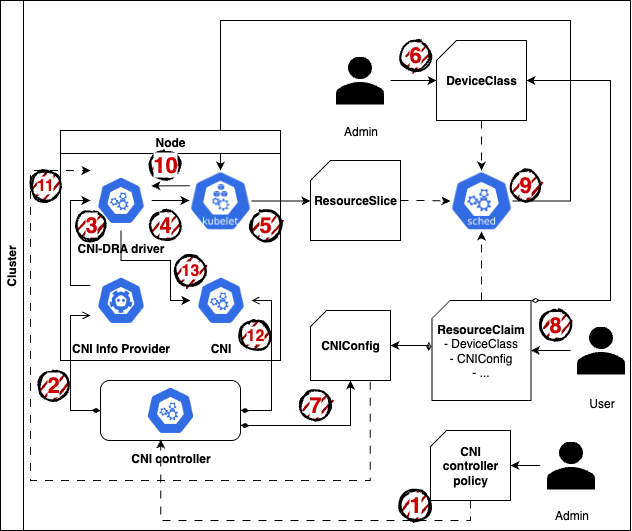
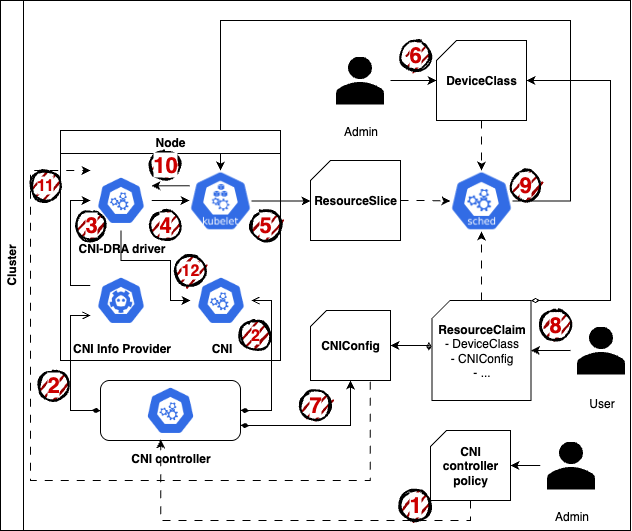
docs: update arch step and device status example

diff --git a/docs/design/architecture.md b/docs/design/architecture.md
@@ -9,7 +9,7 @@ Instead of allowing users to define low-level CNI configurations within their Re
 The following steps detail the complete lifecycle—from policy definition and device registration to CNI configuration generation and execution—ensuring both control and flexibility across administrative and user domains.
 
 1. The admin defines a CNI controller policy.  
-2. The CNI controller deploys the CNI info provider component to the node.  
+2. The CNI controller deploys the CNI and its info provider to the node.  
 3. The CNI info provider registers custom devices (with attributes and capacities) with the CNI DRA driver.  
 4. The CNI DRA driver integrates the network device information and notifies the kubelet.  
 5. The kubelet publishes the corresponding `ResourceSlice`.  
@@ -19,8 +19,7 @@ The following steps detail the complete lifecycle—from policy definition and d
 9. The DRA scheduler selects a device that satisfies the requirements and allocates it to the user-defined `ResourceClaim`, notifying the kubelet.  
 10. The kubelet calls the CNI DRA driver to prepare the device resource.  
 11. The CNI DRA driver retrieves and processes the `CNIConfig` to generate the final CNI configuration.  
-12. The CNI controller deploys the CNI binary to the node. This occurs concurrently with Step 2.  
-13. The CNI DRA driver invokes the CNI plugin and returns results to the kubelet.
+12. The CNI DRA driver invokes the CNI plugi, deployed in the Step 2, and returns results to the kubelet.
 
 > [!NOTE]
 > For CNI plugins that are manually deployed to the node without using a CNI controller, steps 1 to 3 and step 12 are skipped.

diff --git a/docs/design/device-configuration-api.md b/docs/design/device-configuration-api.md
@@ -198,7 +198,7 @@ status:
         - macvlan0
         source: FromClaim
       results:
-      - device: cni
+      - device: eth1
         driver: cni.dra.networking.x-k8s.io
         pool: kind-worker
         request: macvlan0
@@ -227,7 +227,7 @@ status:
       - address: 10.10.1.2/24
         gateway: 10.10.1.1
         interface: 0
-    device: cni
+    device: eth1
     driver: cni.dra.networking.x-k8s.io
     networkData:
       ips:
